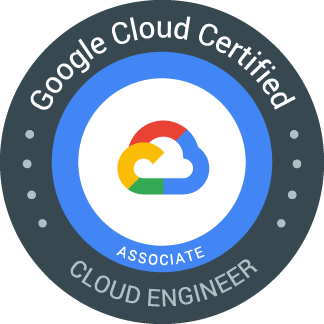
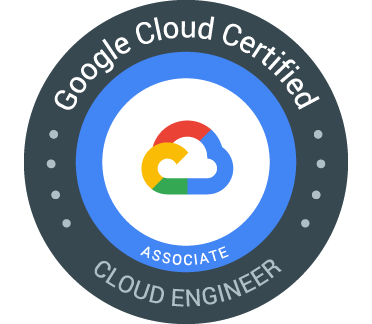
[B/Project] Fixed mobile layout issues

diff --git a/grandnexus/lib/home/credentials/certified_columns.dart b/grandnexus/lib/home/credentials/certified_columns.dart
@@ -5,52 +5,52 @@ import 'package:grandnexus/utils.dart';
 class CertifiedColumns extends StatelessWidget {
   @override
   Widget build(BuildContext context) {
-    return Row(
-      mainAxisAlignment: MainAxisAlignment.center,
-      children: <Widget>[
-        Row(
-          mainAxisAlignment: MainAxisAlignment.center,
-          children: <Widget>[
-            InkWell(
+    return Container(
+      width: 500.0,
+      child: Row(
+        mainAxisAlignment: MainAxisAlignment.center,
+        children: <Widget>[
+          Expanded(
+            child: InkWell(
               onTap: () => showImageDialog(
                 context,
                 const Image(
-                  width: 120,
                   image: AssetImage(
                     'images/certificate-itil.webp',
                   ),
                 ),
               ),
               child: const Image(
-                width: 120,
                 image: AssetImage(
                   'images/certified-itil.webp',
                 ),
               ),
             ),
-            const SizedBox(width: 30.0),
-            InkWell(
+          ),
+          const SizedBox(width: 30.0),
+          Expanded(
+            child: InkWell(
               onTap: () => launchURL('https://bit.ly/jasonchoo-gce'),
               child: const Image(
-                width: 120,
                 image: AssetImage(
                   'images/certified-gce.webp',
                 ),
               ),
             ),
-            const SizedBox(width: 30.0),
-            InkWell(
+          ),
+          const SizedBox(width: 30.0),
+          Expanded(
+            child: InkWell(
               onTap: () => launchURL('https://bit.ly/jasonchoo-csm'),
               child: const Image(
-                width: 150,
                 image: AssetImage(
                   'images/certified-csm.webp',
                 ),
               ),
             ),
-          ],
-        ),
-      ],
+          ),
+        ],
+      ),
     );
   }
 }

diff --git a/grandnexus/lib/home/credentials/credentials.dart b/grandnexus/lib/home/credentials/credentials.dart
@@ -16,6 +16,7 @@ class Credentials extends StatelessWidget {
   @override
   Widget build(BuildContext context) {
     return Container(
+      padding: const EdgeInsets.all(10.0),
       color: Colors.white,
       child: Stack(
         children: <Widget>[
